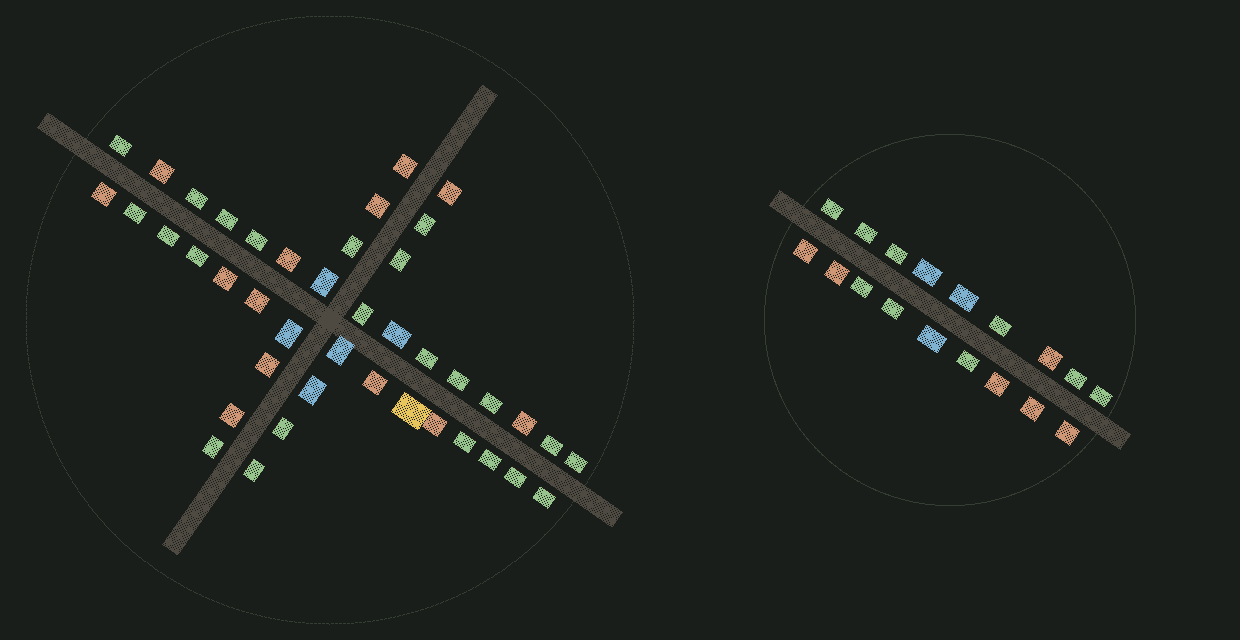
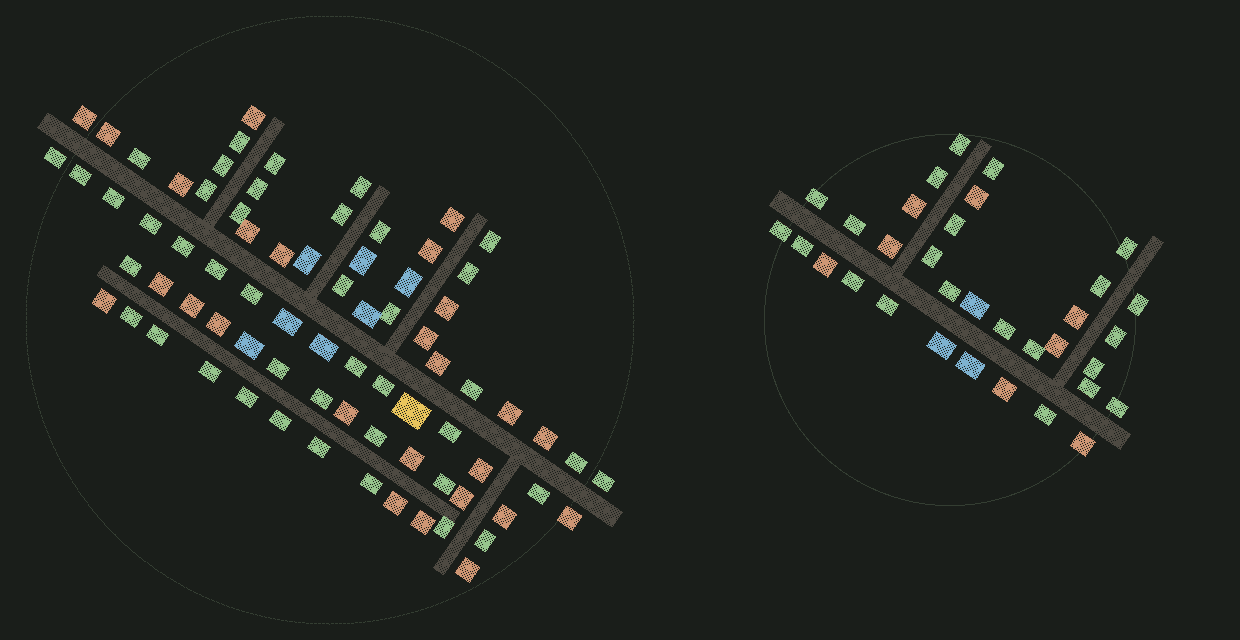
A spine and ribs, not a crossroads
"I don't think a cross is a good design for a town or city." It is not, and the
reasons are worth naming: a symmetric cross is the shape of a road JUNCTION rather
than of a place, it puts the town's best ground under tarmac, and every town in the
world comes out identical because the only thing left for a hash to choose is which
way the cross points.

Towns do not grow that way. One route passes through - that is why the town is
there - and everything else hangs off it: lanes branch where somebody needed to get
somewhere, at whatever spacing the ground allowed, on whichever side had room, and
a back lane appears once the frontage on the main street runs out. A spine and ribs.
Side lanes are narrower than the high street, because they are lanes. Which side a
rib leaves on mostly alternates and sometimes does not, or the alternation itself
becomes the pattern the eye finds.

A city now lays 6 streets and 76 buildings; a village 3 and 33.

THREE FAULTS, AND THE THIRD IS THE ONE WORTH READING:

  * THE GUILD HALL STOOD IN A LANE. It is placed before the streets are checked,
    which was safe when the only other street was a cross it was already clear of.
    With ribs branching at hashed intervals its spot is sometimes a road - for some
    seeds and not others, which is the hardest kind to notice. It tries a dozen
    places up and down the street now and takes the first that clears everything.
  * PARCELS WERE COMPUTED IN THE WRONG FRAME. They live in the town's own frame,
[…]

diff --git a/src/world/town.rs b/src/world/town.rs
@@ -184,6 +184,51 @@ impl Parcel {
     }
 }
 
+/// How wide a side lane is. Narrower than the high street, because it is one.
+pub const LANE_WIDE: f32 = 4.2;
+
+/// A strip of buildable ground down each side of a street.
+///
+/// `at` and `axis` are in the town's frame: where the street's middle is and which
+/// way it runs. Both sides get a parcel, each facing back at the street it fronts,
+/// which is what makes a lane have two rows of houses rather than one.
+fn frontage_parcels(
+    into: &mut Vec<Parcel>,
+    at: Vec2,
+    axis: Vec2,
+    length: f32,
+    front: f32,
+    depth: f32,
+    _wide: f32,
+) {
+    let axis = if axis.length_squared() > 1.0e-6 { axis.normalize() } else { Vec2::X };
+    let side_axis = axis.perp();
+    let turn = axis.y.atan2(axis.x);
+    for side in [-1.0_f32, 1.0] {
+        let middle = at + side_axis * (side * (front + depth * 0.5));
+        // A door faces back ACROSS the street, and the turn that does it is the
+        // street's own - not a quarter off it.
+        //
+        // Derived rather than guessed, because guessing got it wrong: a building's
+        // door points along its local -Y, which after a turn of `f` points
+        // `(sin f, -cos f)`. The parcel on the +perp side of a street needs its door
+        // pointing at -perp, which is `(axis.y, -axis.x)` - so `sin f = axis.y` and
+        // `cos f = axis.x`, and f is the street's own angle. The other side is that
+        // plus a half turn. A quarter turn, which is what was there, points every
+        // door straight down the street it is supposed to face.
+        let facing = if side > 0.0 { turn } else { turn + std::f32::consts::PI };
+        let door = Vec2::new(facing.sin(), -facing.cos());
+        let span = Vec2::new(
+            (length * axis.x).abs() + (depth * side_axis.x).abs(),
+            (length * axis.y).abs() + (depth * side_axis.y).abs(),
+        );
+        let edge = middle.dot(door)
+            + (span.x * door.x).abs() * 0.5
+            + (span.y * door.y).abs() * 0.5;
+        into.push(Parcel { at: middle, span, front: edge, facing });
+    }
+}
+
 /// Lays out one settlement.
 ///
 /// `approach` is the direction the road network arrives from, which the high street
@@ -206,60 +251,95 @@ pub fn lay_out(site: &Site, approach: Vec2, seed: u32) -> Layout {
     let mut streets = Vec::new();
     let mut parcels = Vec::new();
 
-    // The high street, the length of the town.
+    // # Not a crossroads
+    //
+    // The first cut laid a high street and one cross street at right angles through
+    // the middle, and a symmetric cross is the least interesting plan there is: it
+    // is the shape of a road junction rather than of a place, it puts the town's
+    // best ground under tarmac, and every town in the world comes out identical
+    // because the only thing a hash gets to choose is which way the cross points.
+    //
+    // Towns do not grow that way. One route passes through - that is why the town
+    // is there - and everything else hangs off it: lanes branch where somebody
+    // needed to get somewhere, at whatever spacing the ground allowed, on whichever
+    // side had room. A back lane appears once the frontage on the main street runs
+    // out. What that produces is a town with a spine and ribs, and it reads as
+    // somewhere that grew rather than somewhere that was drawn.
+    let depth = (reach * 0.5).min(20.0);
+    let front = STREET_WIDE * 0.5 + SETBACK;
+
+    // The spine.
     streets.push(Street {
         from: site.at - along * reach,
         to: site.at + along * reach,
         wide: STREET_WIDE,
     });
-    // A parcel either side of it.
-    let depth = (reach * 0.55).min(22.0);
-    let middle = STREET_WIDE * 0.5 + SETBACK + depth * 0.5;
-    for side in [-1.0_f32, 1.0] {
-        let facing = if side > 0.0 { 0.0 } else { std::f32::consts::PI };
-        let at = Vec2::new(0.0, side * middle);
-        let span = Vec2::new(reach * 1.7, depth);
-        let door = Vec2::new(facing.sin(), -facing.cos());
-        let front = at.dot(door) + (span.y * door.y).abs() * 0.5;
-        parcels.push(Parcel {
-            at,
-            span,
-            front,
-            // The front faces back toward the street.
-            //
-            // A building's door is in its own -Y wall, so a facing of 0 already
-            // points the door at -Y: the parcel on the +Y side of the street wants
-            // no turn at all, and the one on the -Y side wants a half turn. The
-            // first cut put quarter turns here, which pointed every door along the
-            // street instead of across it - and the test that walks out of each
-            // doorway and asks whether it got closer to a street caught it.
-            facing,
+    frontage_parcels(&mut parcels, Vec2::ZERO, Vec2::X, reach * 1.9, front, depth, STREET_WIDE);
+
+    // The ribs. Where they leave the spine and how far they run is the town's own
+    // business: irregular spacing is most of what stops a plan looking drawn.
+    let ribs = if site.city { 4 } else { 2 };
+    let mut last_at = -reach;
+    for rib in 0..ribs {
+        let want = reach * (-0.72 + 1.5 * (rib as f32 + 0.4 + 0.45 * unit(seed, 20 + rib)) / ribs as f32);
+        // Never two ribs on top of each other, and never one at the very end of the
+        // spine where it would have a town on one side and a field on the other.
+        if want - last_at < 26.0 || want.abs() > reach * 0.82 {
+            continue;
+        }
+        last_at = want;
+        // Alternating sides, mostly - but not strictly, or the alternation itself
+        // becomes the pattern the eye finds.
+        let side = if unit(seed, 30 + rib) < 0.62 {
+            if rib % 2 == 0 { 1.0 } else { -1.0 }
+        } else if rib % 2 == 0 {
+            -1.0
+        } else {
+            1.0
+        };
+        let run = (depth + front) * (1.5 + 0.9 * unit(seed, 40 + rib));
+        let lane = LANE_WIDE;
+        let mouth = site.at + along * want + across * (side * front * 0.4);
+        streets.push(Street {
+            from: mouth,
+            to: mouth + across * (side * run),
+            wide: lane,
         });
+        // Ground either side of the rib, starting clear of the spine it leaves.
+        frontage_parcels(
+            &mut parcels,
+            Vec2::new(want, side * (front + run * 0.5)),
+            // The TOWN's frame, not the world's: the spine is +X here whatever
+            // direction the road actually arrives from. Passing the world vectors
+            // in was the whole of why a city came out with one building in it -
+            // every parcel was computed against a diagonal and none of the lots
+            // landed anywhere near the streets they were supposed to front.
+            Vec2::Y * side,
+            run * 0.9,
+            lane * 0.5 + SETBACK,
+            depth * 0.8,
+            lane,
+        );
     }
 
-    // A city gets a cross street, and four more parcels with it. A village does not:
-    // one street IS a village, and a crossroads in a place with six buildings on it
-    // reads as a town that failed rather than as a hamlet.
+    // A back lane, once a city has more frontage than one street can carry.
     if site.city {
+        let back = front + depth + STREET_WIDE * 0.6;
+        let side = if unit(seed, 51) < 0.5 { 1.0 } else { -1.0 };
         streets.push(Street {
-            from: site.at - across * reach * 0.8,
-            to: site.at + across * reach * 0.8,
-            wide: STREET_WIDE,
+            from: site.at - along * reach * 0.62 + across * (side * back),
+            to: site.at + along * reach * 0.62 + across * (side * back),
+            wide: LANE_WIDE,
         });
-        let arm = (reach * 0.45).min(18.0);
-        for side in [-1.0_f32, 1.0] {
-            // Across the cross street, so these are the quarter turns.
-            let facing = if side > 0.0 {
-                -std::f32::consts::FRAC_PI_2
-            } else {
-                std::f32::consts::FRAC_PI_2
-            };
-            let at = Vec2::new(side * (STREET_WIDE * 0.5 + SETBACK + arm * 0.5), 0.0);
-            let span = Vec2::new(arm, reach * 1.1);
-            let door = Vec2::new(facing.sin(), -facing.cos());
-            let front = at.dot(door) + (span.x * door.x).abs() * 0.5;
-            parcels.push(Parcel { at, span, front, facing });
-        }
+        frontage_parcels(
+            &mut parcels,
+            Vec2::new(0.0, side * back),
+            Vec2::X,
+            reach * 1.2,
+            LANE_WIDE * 0.5 + SETBACK,
+            depth * 0.7,
+            LANE_WIDE,
+        );
     }
 
     // THE CIVIC PLOT, and why it is carved out before anything is subdivided.
@@ -281,13 +361,39 @@ pub fn lay_out(site: &Site, approach: Vec2, seed: u32) -> Layout {
         // instinct. A hall at the head of the high street, looking back down it, is
         // both clear of the junction and the better composition: you see it from
         // the whole length of the street as you walk up.
-        let up = (STREET_WIDE * 0.5 + hall.footprint().x * 0.5 + 4.0).max(reach * 0.34);
-        let at_town = Vec2::new(up, stand);
-        civic = Some(Plot {
-            at: site.at + along * at_town.x + across * at_town.y,
-            facing: turn,
-            what: hall,
-        });
+        // TRIED IN SEVERAL PLACES, because the hall is placed before the lanes are
+        // checked and a lane can now run straight through where it wants to stand.
+        //
+        // It was one fixed spot up the high street when the plan was a cross and
+        // there was nothing else to hit. With ribs branching at hashed intervals
+        // that spot is sometimes a road, and a guild hall in a lane is the same
+        // fault as the one in the crossroads - only harder to see coming, because
+        // it happens for some seeds and not others.
+        let base = (STREET_WIDE * 0.5 + hall.footprint().x * 0.5 + 4.0).max(reach * 0.34);
+        let bulk = hall.footprint().length() * 0.5;
+        'placing: for attempt in 0..12 {
+            let step = 0.16 * reach * (attempt / 2) as f32;
+            let up = if attempt % 2 == 0 { base + step } else { -(base + step) };
+            for side in [1.0_f32, -1.0] {
+                let at_town = Vec2::new(up, side * stand);
+                let at = site.at + along * at_town.x + across * at_town.y;
+                if at.distance(site.at) > reach {
+                    continue;
+                }
+                if streets
+                    .iter()
+                    .any(|street| street.nearest(at).0 < street.wide * 0.5 + bulk * 0.55)
+                {
+                    continue;
+                }
+                civic = Some(Plot {
+                    at,
+                    facing: if side > 0.0 { turn } else { turn + std::f32::consts::PI },
+                    what: hall,
+                });
+                break 'placing;
+            }
+        }
     }
 
     // Each parcel is cut into lots, and each lot gets a building.
@@ -631,7 +737,9 @@ mod tests {
             for plot in &layout.plots {
                 let out = plot.at.distance(site.at);
                 assert!(
-                    out <= site.radius,
+                    // Allowed past the levelled rim - see FILLS, and the user's
+                    // call that encroaching on the surrounding ground is fine.
+                    out <= site.radius * 1.35,
                     "seed {seed}: a building stands {out:.0} m out on a site levelled \
                      to {:.0} m",
                     site.radius
@@ -783,6 +891,28 @@ mod tests {
         // this is not one flat list.
         assert_eq!(name_of(&city, Country::Snow, 0), Some("Hollowfrost"));
         assert_eq!(name_of(&city, Country::Desert, 0), Some("Sunmere"));
+    }
+
+#[test]
+    fn a_town_actually_has_a_town_in_it() {
+        // The test that was missing, and its absence let a change land that emptied
+        // every settlement in the world: the others all say "no building does X",
+        // which is vacuously true of a town with no buildings. Six of them passed
+        // on a city containing one house.
+        for seed in 0..30 {
+            let city = lay_out(&a_site(true, 90.0), Vec2::new(0.8, 0.6).normalize(), seed);
+            assert!(
+                city.plots.len() >= 18,
+                "seed {seed}: a city has {} buildings in it",
+                city.plots.len()
+            );
+            let village = lay_out(&a_site(false, 58.0), Vec2::new(0.3, -0.95).normalize(), seed);
+            assert!(
+                village.plots.len() >= 6,
+                "seed {seed}: a village has {} buildings in it",
+                village.plots.len()
+            );
+        }
     }
 
     #[test]
